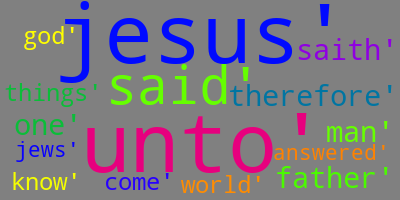
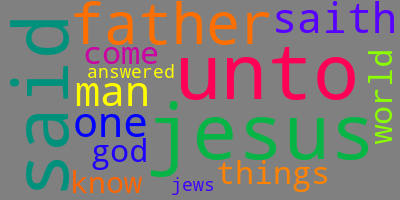
working on homework 1:38 3/29

diff --git a/NLP Exercise.py b/NLP Exercise.py
@@ -4,9 +4,11 @@ import nltk
 from nltk.corpus import stopwords
 from pathlib import Path
 
-import pandas as pd
+
 
 blob = TextBlob(Path("book of John text.txt").read_text())
+
+
 
 
 stops = stopwords.words("english")
@@ -16,6 +18,8 @@ more_stops = ["thy", "ye", "verily", "thee", "hath", "say", "thou", "art", "shal
 stops += more_stops
 
 items = blob.word_counts.items()
+
+
 
 clean_items = [item for item in items if item[0] not in stops]
 
@@ -32,12 +36,16 @@ top15 = sorted_items[:15]
 import matplotlib.pyplot as plt
 from wordcloud import WordCloud
 
+text = str(top15)
 
+text_clean = text.replace("'", "")
 
 
 wordcloud = WordCloud(colormap="prism", background_color="gray")
 
-wordcloud = wordcloud.generate(str(top15))
+wordcloud = wordcloud.generate(text_clean)
+
+
 
 wordcloud = wordcloud.to_file("BookOfJohnTop15.png")
 
